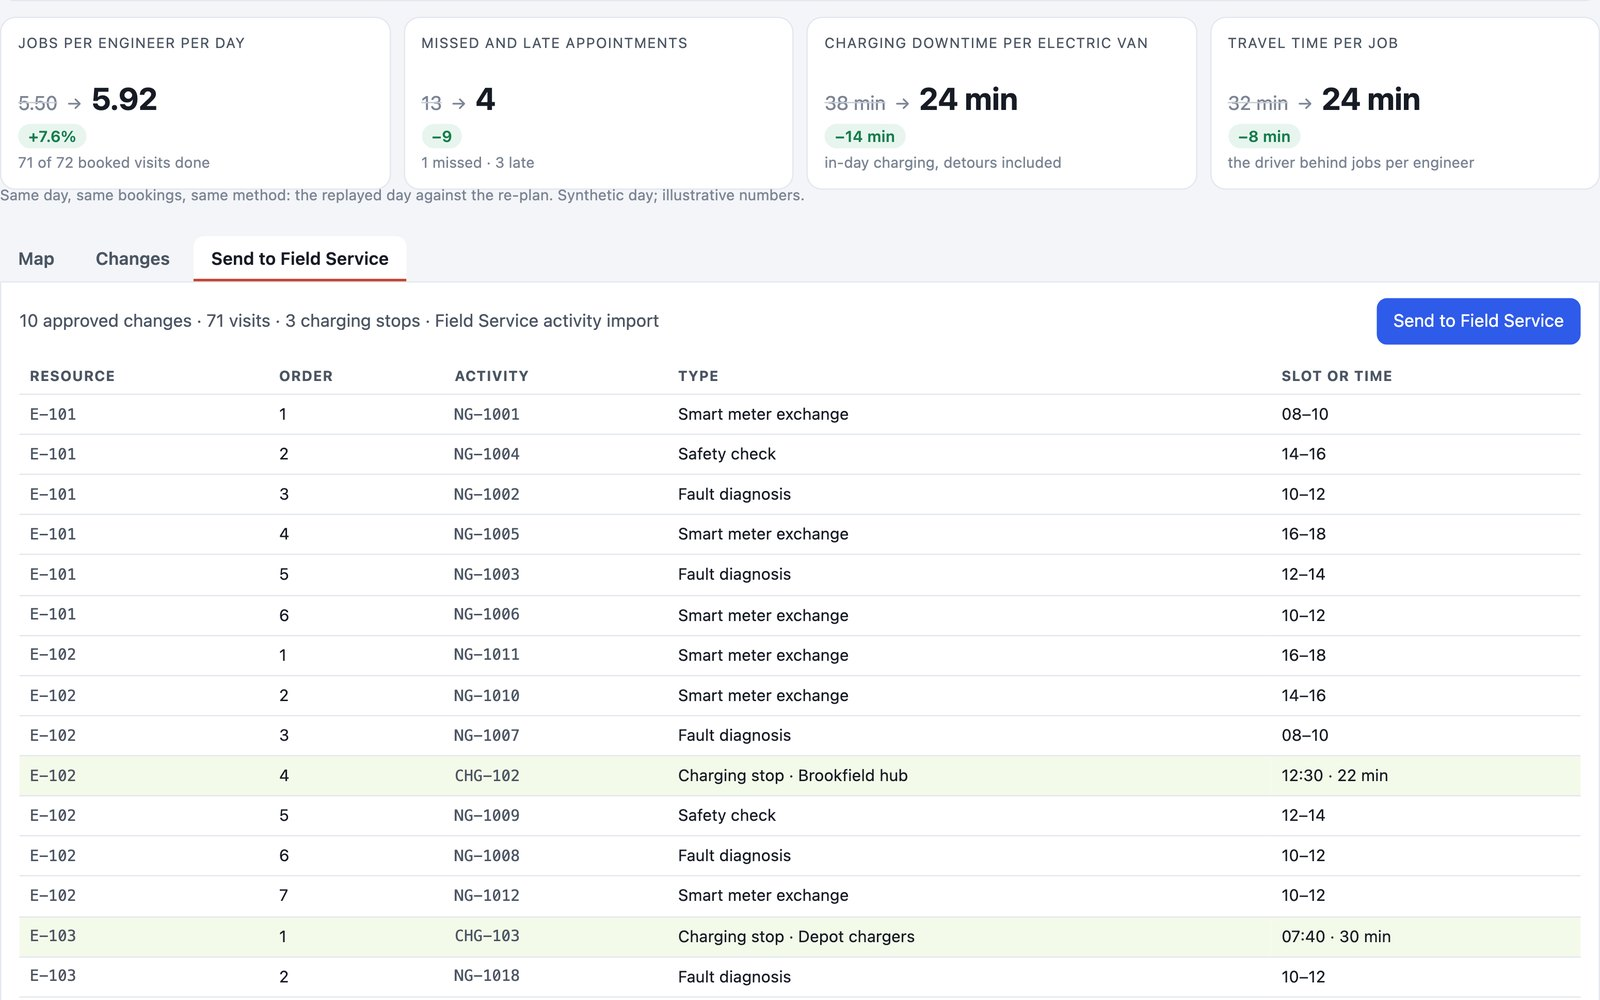
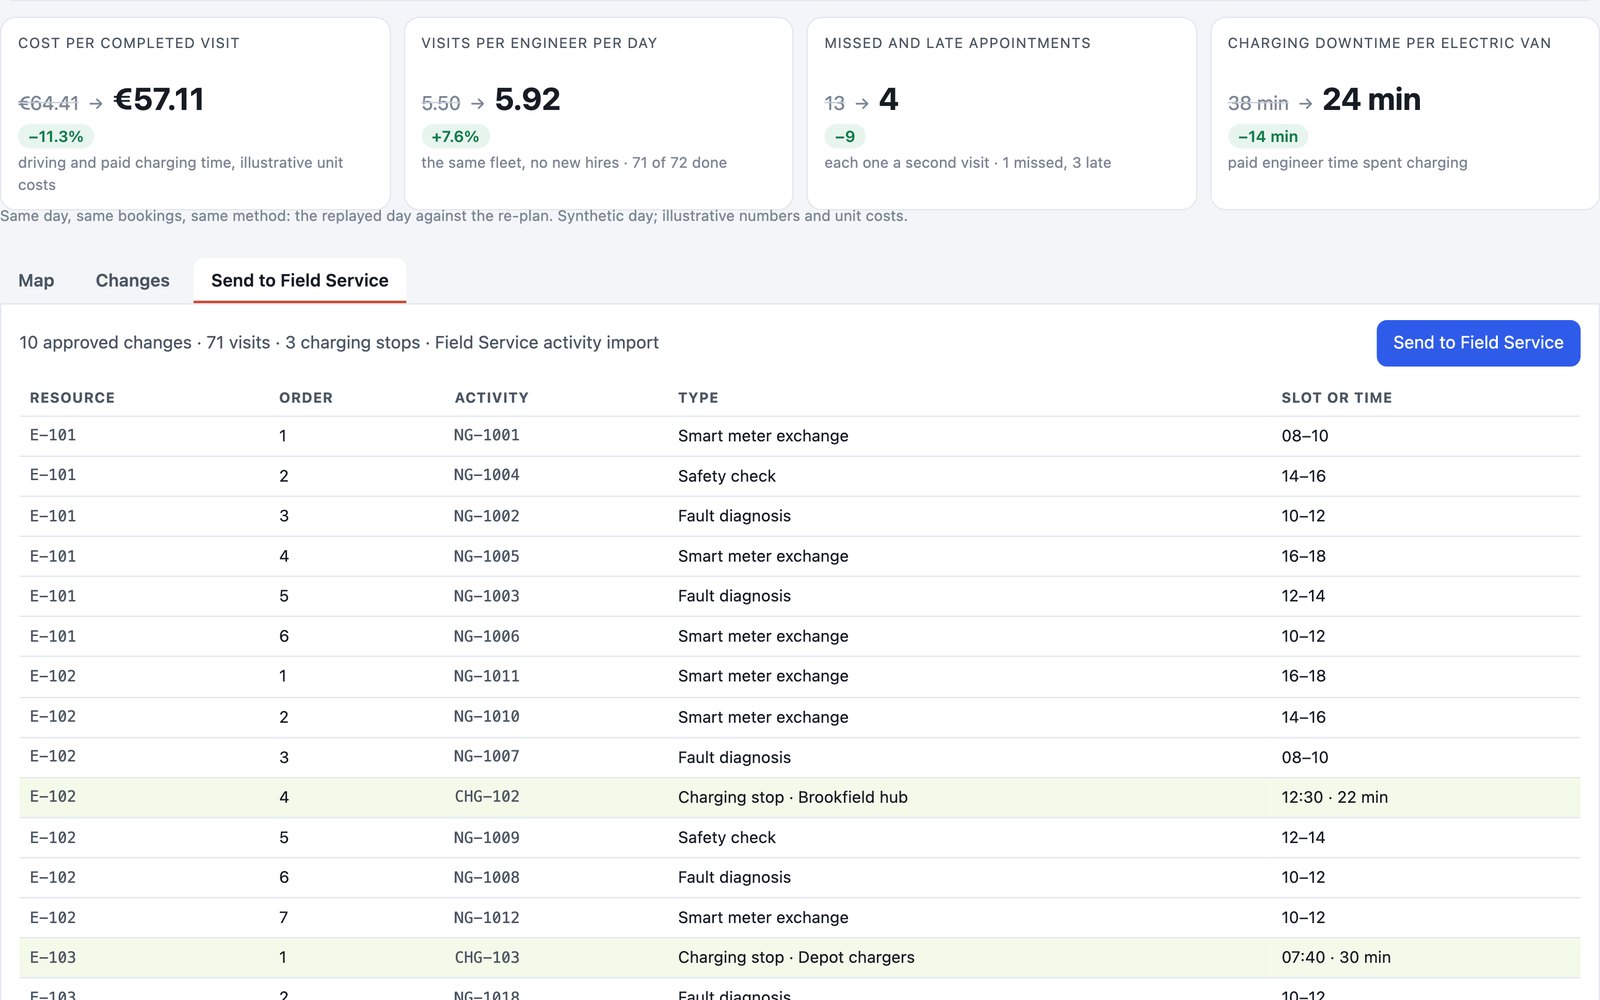
autosync: KN7X2Y65NX 2026-09-29 11:22 (9 changed)

diff --git a/site/demo/fleet-route-optimization/demo.js b/site/demo/fleet-route-optimization/demo.js
@@ -101,14 +101,14 @@
   function renderBand() {
     var b = D.kpis([]), a = D.kpis(S.applied);
     var tiles = [
-      { lab: "Jobs per engineer per day", from: b.jobsPerEng.toFixed(2), to: a.jobsPerEng.toFixed(2),
-        d: deltaChip(b.jobsPerEng, a.jobsPerEng, true, "", true), note: a.completed + " of 72 booked visits done" },
+      { lab: "Cost per completed visit", from: "€" + b.costPerVisit.toFixed(2), to: "€" + a.costPerVisit.toFixed(2),
+        d: deltaChip(b.costPerVisit, a.costPerVisit, false, "", true), note: "driving and paid charging time, illustrative unit costs" },
+      { lab: "Visits per engineer per day", from: b.jobsPerEng.toFixed(2), to: a.jobsPerEng.toFixed(2),
+        d: deltaChip(b.jobsPerEng, a.jobsPerEng, true, "", true), note: "the same fleet, no new hires · " + a.completed + " of 72 done" },
       { lab: "Missed and late appointments", from: b.missedLate, to: a.missedLate,
-        d: deltaChip(b.missedLate, a.missedLate, false, ""), note: a.missed + " missed · " + a.late + " late" },
+        d: deltaChip(b.missedLate, a.missedLate, false, ""), note: "each one a second visit · " + a.missed + " missed, " + a.late + " late" },
       { lab: "Charging downtime per electric van", from: fmtMin(b.chargePerEv), to: fmtMin(a.chargePerEv),
-        d: deltaChip(b.chargePerEv, a.chargePerEv, false, "min"), note: "in-day charging, detours included" },
-      { lab: "Travel time per job", from: fmtMin(b.travelPerJob), to: fmtMin(a.travelPerJob),
-        d: deltaChip(b.travelPerJob, a.travelPerJob, false, "min"), note: "the driver behind jobs per engineer" }
+        d: deltaChip(b.chargePerEv, a.chargePerEv, false, "min"), note: "paid engineer time spent charging" }
     ];
     $("#band").innerHTML = tiles.map(function (t) {
       return '<div class="kpi"><div class="lab">' + t.lab + '</div><div class="vals"><span class="from">' + t.from +
@@ -447,8 +447,8 @@
         target: function () { return $("#btn-opt"); },
         auto: function () { optimize(false); } },
       { id: "kpis", major: 3, side: "bottom", passive: true, scroll: "center",
-        title: "See what got better",
-        body: "Same day, same bookings, same method: the day as it ran against the re-plan. Illustrative numbers from a synthetic day.",
+        title: "See what it is worth",
+        body: "Same day, same bookings: cost per visit, visits per engineer and missed appointments, as it ran against the re-plan. Illustrative unit costs on a synthetic day.",
         target: function () { return $("#band-wrap"); },
         anchor: function () { return $("#band"); },
         auto: function () { tour.next(); } },

diff --git a/site/pages/overview.js b/site/pages/overview.js
@@ -254,8 +254,9 @@
      the managed service is a stage of its own and the customer's choice, and
      the durations are floors ("From 4 weeks"), so the block carries no caveat.
      The three reasons to pick this team follow the track as a hairline list
-     across the full width, not a column beside it, and the screen ends on its
-     one button. */
+     across the full width, not a column beside it. Round 18: the screen ends
+     on that list. Its button led to the Services page, which is gone, and the
+     services' one ask now closes the Bespoke band directly below. */
   function ladderModifier(count) {
     return count === 5 ? " ladder3--five" : count === 4 ? " ladder3--four" : "";
   }
@@ -276,14 +277,6 @@
           '<p class="ladder3-fact-value">' + UI.esc(step.fact) + "</p>" +
         "</div>" +
         "</div>";
-    }).join("");
-
-    var ctas = (block.ctas || []).map(function (cta, index) {
-      return UI.button({
-        label: cta.label, href: cta.route,
-        kind: cta.kind === "primary" ? "primary" : "quiet",
-        iconAfter: index === 0 ? "arrow" : null
-      });
     }).join("");
 
     var pillars = ((block.why && block.why.pillars) || []).map(function (pillar) {
@@ -307,7 +300,6 @@
           '<p class="eyebrow">' + UI.esc(block.why.title) + "</p>" +
           '<div class="pillars pillars--list">' + pillars + "</div>" +
         "</div>" +
-        '<div class="cta-row deliver-cta">' + ctas + "</div>" +
       "</div>" +
       "</div></section>";
   }
@@ -337,8 +329,10 @@
         "</li>";
     }).join("");
 
+    /* The services' one ask (round 18): S4 above it ends on its Why list, so a
+       filled button here is the only one between the hero and the contact. */
     var cta = block.cta && block.cta.label
-      ? '<p class="bespoke-cta">' + UI.linkArrow({ label: block.cta.label, href: block.cta.route }) + "</p>"
+      ? '<div class="cta-row bespoke-cta">' + UI.button({ label: block.cta.label, href: block.cta.route, kind: "primary" }) + "</div>"
       : "";
 
     /* Two rows around the picture, so a phone can stack copy, photograph and

diff --git a/site/demo/fleet-route-optimization/index.html b/site/demo/fleet-route-optimization/index.html
@@ -72,7 +72,7 @@
 
     <section id="band-wrap" hidden>
       <div class="band" id="band"></div>
-      <p class="band-note" id="band-note">Same day, same bookings, same method: the replayed day against the re-plan. Synthetic day; illustrative numbers.</p>
+      <p class="band-note" id="band-note">Same day, same bookings, same method: the replayed day against the re-plan. Synthetic day; illustrative numbers and unit costs.</p>
     </section>
 
     <nav class="tabs" id="tabs">
@@ -147,7 +147,7 @@
 <div class="modal" id="gate" hidden>
   <div class="modal-card">
     <h2 id="gate-title">Fleet route optimization</h2>
-    <p id="gate-body" class="muted" style="margin:0">Replay a past day of a van fleet and re-plan it on GPU. See what improves, overrule what you disagree with, and send the approved routes to dispatch.</p>
+    <p id="gate-body" class="muted" style="margin:0">Replay a past day of a van fleet and re-plan it on GPU. See what it saves, overrule what you disagree with, and send the approved routes to dispatch.</p>
     <p class="gate-steps" id="gate-steps">6 steps · about 3 minutes</p>
     <div class="gate-actions">
       <button class="primary" id="gate-start" type="button">Start the walkthrough</button>

diff --git a/site/demo/fleet-route-optimization/data.js b/site/demo/fleet-route-optimization/data.js
@@ -107,6 +107,7 @@
      charge = in-day charging minutes across the 8 electric vans (incl. detours);
      travel = driving minutes across the 12 vans.                              */
   var BASE = { charge: 304, travel: 2112, engineers: 12, evs: 8, booked: 72 };
+  var UNIT = { engineerDay: 280, driveMin: 0.35, chargeMin: 0.5 };   /* € — illustrative, invented */
 
   /* The re-plan, as changes a planner can read. fixes = job problems it removes. */
   var CHANGES = [
@@ -191,8 +192,12 @@
       charge += e.charge || 0; travel += e.travel || 0;
     });
     var completed = BASE.booked - missed;
+    /* Illustrative unit costs (invented): the fleet's fixed cost per engineer-day,
+       plus driving and in-day charging priced per minute. */
+    var cost = BASE.engineers * UNIT.engineerDay + travel * UNIT.driveMin + charge * UNIT.chargeMin;
     return {
       completed: completed, missed: missed, late: late, charge: charge, travel: travel,
+      costPerVisit: cost / completed,
       jobsPerEng: completed / BASE.engineers,
       missedLate: missed + late,
       chargePerEv: charge / BASE.evs,

diff --git a/site/data/content.js b/site/data/content.js
@@ -290,7 +290,7 @@ window.SITE_CONTENT = {
           bullets: [
             "A proof of value from 30 days, on your own data",
             "Measurable ROI in focus from day one",
-            "One team, from the first use case to your AI factory"
+            "One team, all the way to your own AI factory"
           ],
           image: {
             file: "assets/img/heroes/services.jpg",
@@ -331,10 +331,7 @@ window.SITE_CONTENT = {
           { icon: "why-agentic", title: "Agentic AI expertise", body: "Agents and workflows tested on real enterprise systems, with evaluation and guardrails built into every engagement." },
           { icon: "why-scope", title: "Fixed-scope delivery", body: "Signed success metrics up front, and every Jumpstart ends with an executive readout and a costed expansion plan." }
         ]
-      },
-      ctas: [
-        { label: "See the full method", route: "#/services#how-we-engage", kind: "primary" }
-      ]
+      }
     },
 
     /* Round 18 (Alex): the second way to buy the practice, under the packaged
